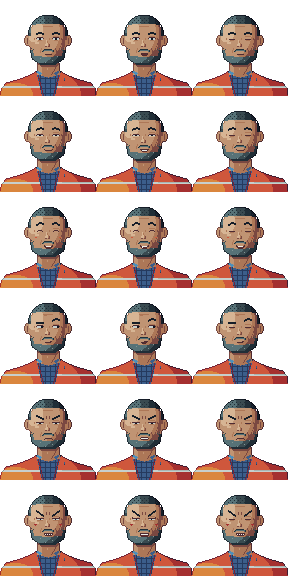
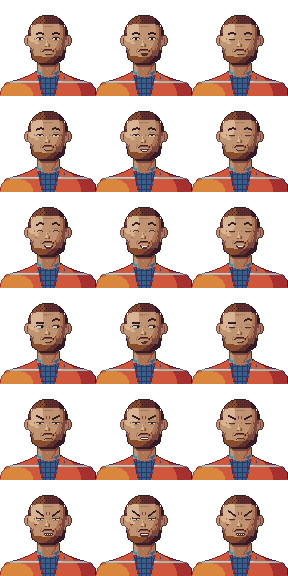
Прораб: русая борода вместо сизой, светоотражающая полоса выше края стола

diff --git a/tools/art/people.py b/tools/art/people.py
@@ -260,7 +260,7 @@ def shirt_collar(c, nw, nb, light=45, dark=44, edge=43):
 def foreman():
     """Прораб, ~50: квадратная челюсть, короткая седеющая борода, ёжик, сигнальный жилет поверх клетки."""
     f = Face(top=17, cy=37, rx=19, jaw_y=55, jaw_w=17, chin_y=64, chin_w=8, jaw_p=2.6, cheek=2.4)
-    HAIR = [38, 39, 40, 41]
+    HAIR = [18, 19, 19, 20]
 
     def body(c, P, m):
         xs, ys = grid()
@@ -271,13 +271,15 @@ def foreman():
             paint(c, m & (np.abs(ys - y - 0.5) < 0.6), 1)
         vest = m & ~poly_mask([(36, 70), (60, 70), (54, 96), (42, 96)])
         paint_cloth(c, vest, [27, 28, 28, 29], cuts=(0.25, 0.55, 0.92))
-        for y in (86, 87):
+        # светоотражающая полоса: выше края стола, чтобы жилет читался в сцене
+        for y in (81, 82):
             paint(c, vest & (np.abs(ys - y - 0.5) < 0.6), 44)
-        paint(c, vest & (np.abs(ys - 86.5) < 0.6) & (xs > 62), 43)
+        paint(c, vest & (np.abs(ys - 82.5) < 0.6), 43)
+        paint(c, vest & (np.abs(ys - 81.5) < 0.6) & (xs > 62), 43)
         line(c, [(37, 71), (43, 96)], 26)
         line(c, [(59, 71), (53, 96)], 26)
         # ручка в кармане жилета
-        put(c, 64, 78, ['b', 'b', 'B'], {'b': 2, 'B': 1})
+        put(c, 64, 76, ['b', 'b', 'B'], {'b': 2, 'B': 1})
 
     def collar(c, P):
         put(c, 37, 71, ['aa....', 'aaaa..', '.aaaa.', '..aa..'], {'a': 3})
@@ -295,7 +297,7 @@ def foreman():
         for y in range(18, 24, 2):
             for x in range(34 + (y % 4), 62, 4):
                 if h[y, x]:
-                    c[y, x] = 39
+                    c[y, x] = 18
 
     def beard(c, P, emotion):
         xs, ys = grid()
@@ -303,23 +305,23 @@ def foreman():
         ey = P['ey']
         b = face & (ys > ey + 13) & ((np.abs(xs - CX) > f.hw(ys) - 3) | (ys > ey + 19))
         b &= ~((ys < ey + 20) & (np.abs(xs - CX) < 6))
-        paint(c, b, band(shade_ellipsoid(CX - 3, 56, 20, 12), [0.3, 0.6], [39, 40, 41]))
-        paint(c, b & (ys > f.chin_y - 1.5), 39)
+        paint(c, b, band(shade_ellipsoid(CX - 3, 56, 20, 12), [0.3, 0.6], [18, 19, 20]))
+        paint(c, b & (ys > f.chin_y - 1.5), 18)
         # щетина на скулах
         for x, y in ((31, ey + 11), (33, ey + 12), (63, ey + 11), (61, ey + 12), (32, ey + 13), (62, ey + 13)):
             if face[y, x]:
-                c[y, x] = 40
+                c[y, x] = 19
         # седина пятнами
         for x, y in ((40, 58), (52, 60), (45, 62), (57, 56), (38, 55)):
             if b[y, x]:
-                c[y, x] = 42
+                c[y, x] = 20
 
     def moustache(c, P, emotion):
         ey = P['ey']
-        put(c, CX - 6, ey + 12, ['..GGGGGGGG..', '.GgggggggggG', 'Gg........gG'], {'G': 39, 'g': 41})
+        put(c, CX - 6, ey + 12, ['..GGGGGGGG..', '.GgggggggggG', 'Gg........gG'], {'G': 18, 'g': 20})
 
     return dict(face=f, skin=SKIN_MID, ey=37, age=50, female=False, neck=10, nose='broad', shoulders=42,
-                brow=(38, 2), body=body, collar=collar, hair=hair, beard=beard, moustache=moustache, blush=28,
+                brow=(18, 2), body=body, collar=collar, hair=hair, beard=beard, moustache=moustache, blush=28,
                 mouth_y=37 + 16, forehead=True)
 
 
